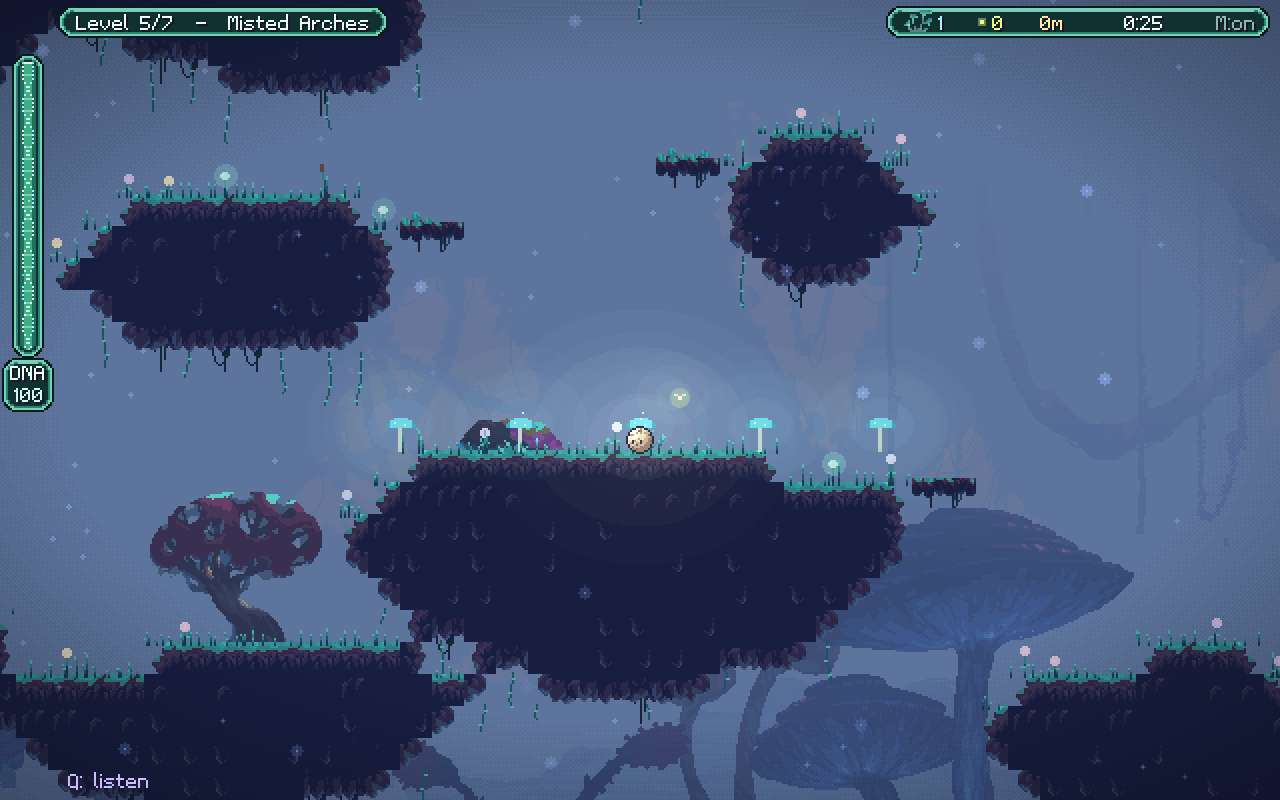
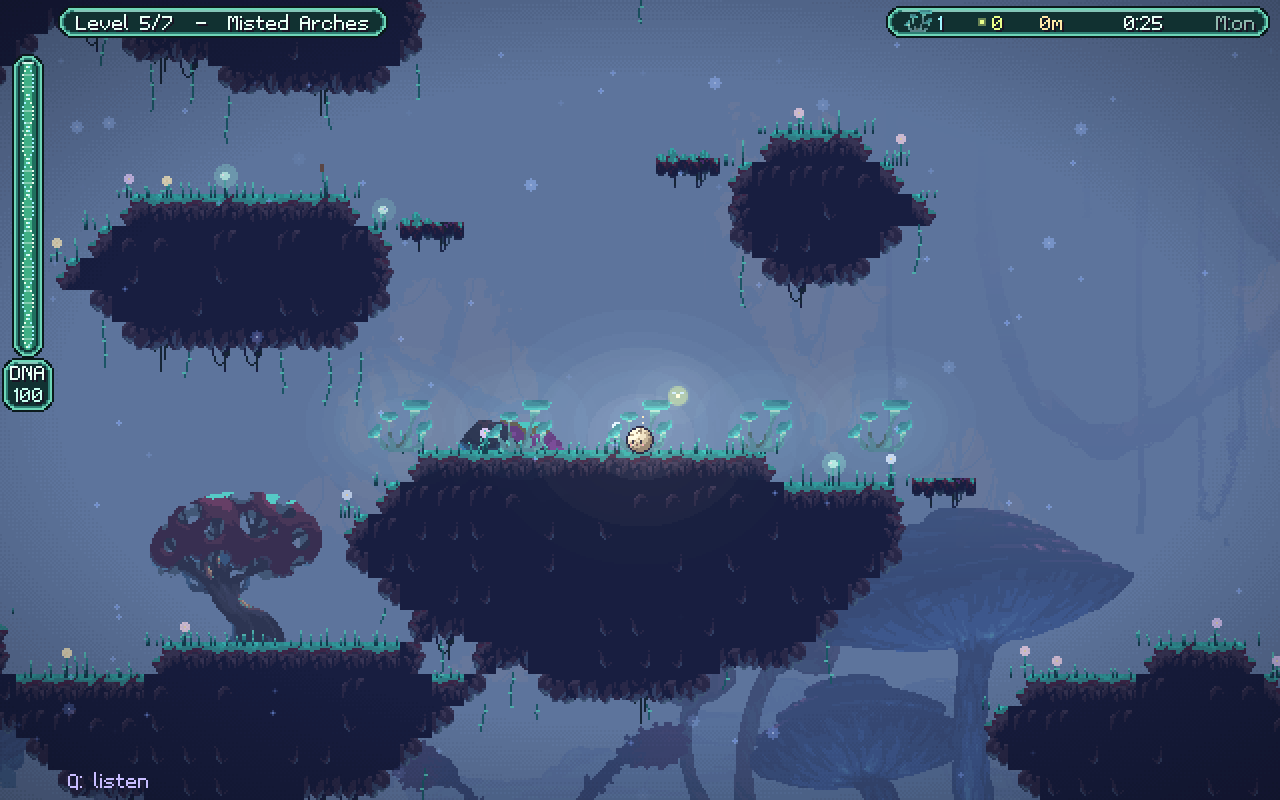
fix: proper glowcaps
the glowcaps that grow where u fall use the real glowcap sprite again instead of the little drawn one

diff --git a/src/game.js b/src/game.js
@@ -849,7 +849,7 @@ function updateSprouts(dt) {
   const b = G.ball;
   for (const s of G.sprouts || []) {
     s.t += dt; if (s.sq > 0) s.sq = Math.max(0, s.sq - dt * 4);
-    const top = s.y - sproutH(s) - 5;
+    const top = s.y - sproutH(s) + 4;
     if (G.phase === 'play' && s.t > 1.2 && b.vy > 40 && Math.abs(b.x - s.x) < 10 && b.y + PHYS.R > top - 2 && b.y + PHYS.R < top + 8) {
       b.y = top - PHYS.R; b.vy = -Math.max(380, b.vy * 0.75); s.sq = 1; AU.cap(); resetAirCharges();
       if (!(G.od > 0) && G.time - (G.odAt || -99) > 6) { G.od = 3; G.odSlow = 0.7; G.odTrail = []; G.odAt = G.time; AU.reveal(); if (!G.run.rebounded) { G.run.rebounded = true; popup('Rebound', b.x, b.y - 24, '#7dff3a'); } }
@@ -858,15 +858,15 @@ function updateSprouts(dt) {
   }
 }
 function dot(x, y, c) { ctx.fillStyle = c; ctx.fillRect(Math.round(x), Math.round(y), 1, 1); }
-function sproutH(s) { const k = Math.min(1, Math.max(0, (s.t - 0.4) / 0.8)); return Math.round(12 * (1 + 2.7 * Math.pow(k - 1, 3) + 1.7 * Math.pow(k - 1, 2))); }
-function drawSprouts(t, list) {
+function sproutH(s) { const k = Math.min(1, Math.max(0, (s.t - 0.4) / 0.8)); return Math.round(SPR.glow[3] * 0.8 * (1 + 2.7 * Math.pow(k - 1, 3) + 1.7 * Math.pow(k - 1, 2))); }
+function drawSprouts(t, list) {      // the glowcap that grows where you fell
+  const g = SPR.glow;
   for (const s of list || G.sprouts || []) {
     if (s.t < 0.4) { if (Math.random() < 0.5) dot(s.x + (Math.random() - 0.5) * 6, s.y - Math.random() * 6, '#9ff4ff'); continue; }
-    const h = sproutH(s), sq = Math.sin(s.sq * Math.PI) * s.sq, w = Math.round(7 * (1 + sq * 0.3)), top = s.y - h;
-    ctx.fillStyle = '#c8d8c8'; ctx.fillRect(s.x - 1, top, 2, h);
-    for (let i = -w; i <= w; i++) { const hh = Math.round(Math.sqrt(1 - (i / (w + 0.5)) ** 2) * (5 - sq * 2)); ctx.fillStyle = Math.abs(i) > w - 2 ? '#3fa8b8' : '#6fe0e8'; ctx.fillRect(s.x + i, top - hh, 1, hh); }
-    dot(s.x - 3, top - 3, '#e0fff8'); dot(s.x + 2, top - 2, '#e0fff8');
-    if (Math.sin(t * 3 + s.x) > 0.96) dot(s.x + (Math.random() - 0.5) * 10, top - 6 - Math.random() * 6, '#e0fff8');
+    const k = sproutH(s) / (g[3] * 0.8), sq = Math.sin(s.sq * Math.PI) * s.sq;
+    const w = Math.round(g[2] * 0.8 * Math.min(1, 0.4 + k * 0.6) * (1 + sq * 0.15)), h = Math.max(1, Math.round(g[3] * 0.8 * k * (1 - sq * 0.2)));
+    ctx.drawImage(IMG.tp, g[0], g[1], g[2], g[3], Math.round(s.x - w / 2), Math.round(s.y - h), w, h);
+    if (Math.sin(t * 3 + s.x) > 0.96) dot(s.x + (Math.random() - 0.5) * 14, s.y - h - Math.random() * 6, '#e0fff8');
   }
 }
 function popup(s, x, y, color) { G.popups.push({ s, x, y, t: 0, color: color || MEM.text }); }
